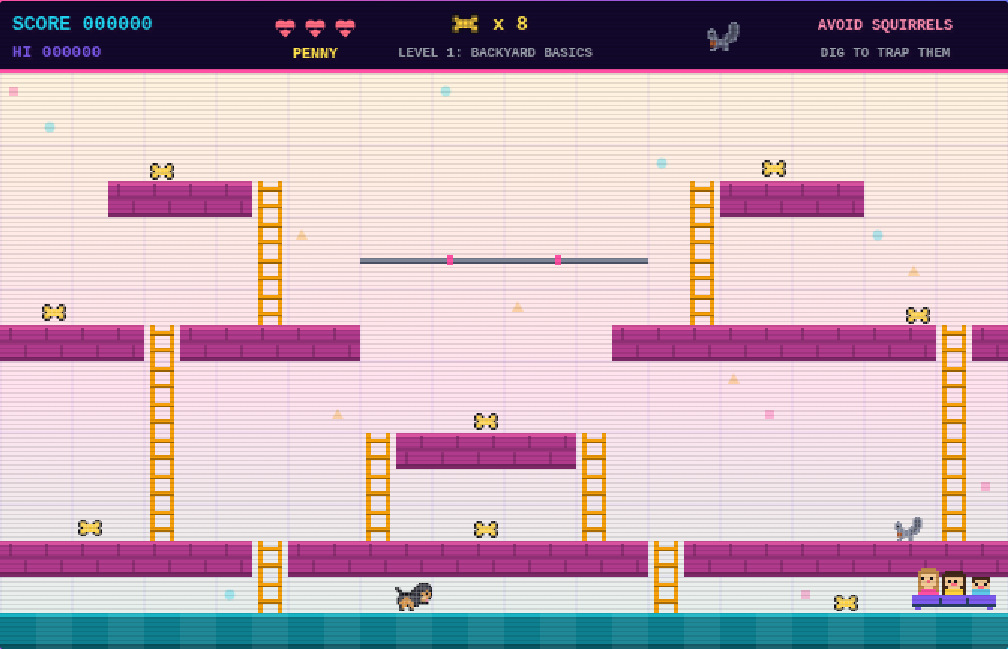
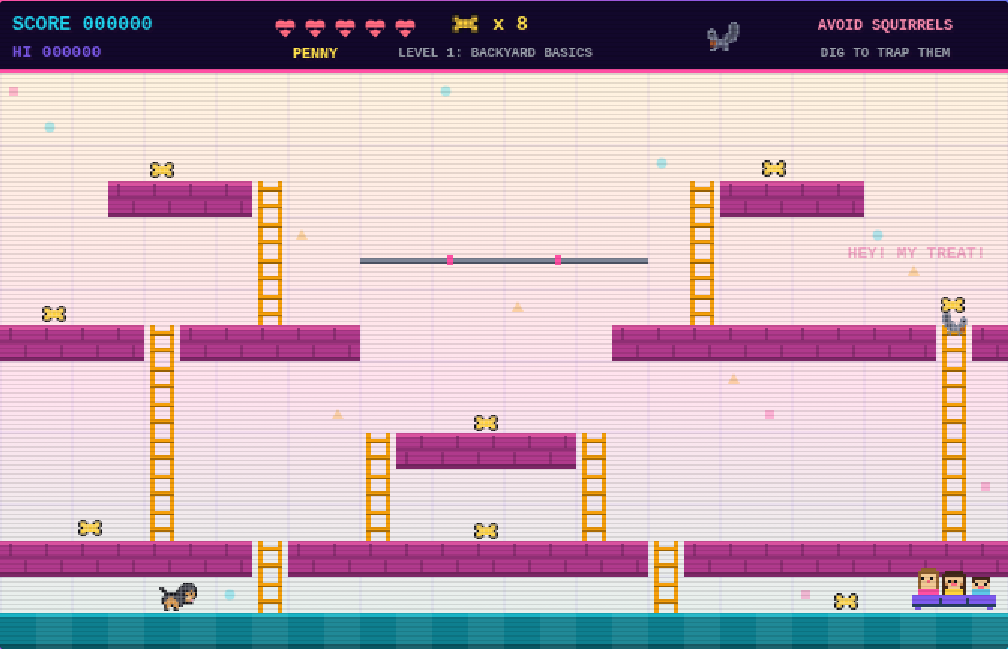
Tune for kids 7-12: forgiveness systems + family tweaks + stranding guard
Playtest findings & changes:
- Oldest girl (12) hair recolored darker and shortened to a bob; freckles
  added to the 9-year-old in the middle.
- 5 lives (was 3); a game over now retries the SAME level with fresh lives
  and keeps your score, instead of dumping you back to Level 1.
- Squirrels slowed (64->54 px/s) so Penny (92) clearly outruns them.
- validate-levels.mjs now also proves no treat can be permanently
  stranded by a bad collection order (spawn-SCC check); all levels pass.
- README documents the kid-friendly design and the guarantees the
  validator enforces.

diff --git a/game.js b/game.js
@@ -14,7 +14,8 @@ const W = COLS * T, H = ROWS * T + HUD;      // canvas size
 const PENNY_SPEED  = 92;     // px/s walking
 const CLIMB_SPEED  = 78;
 const FALL_SPEED   = 168;
-const SQRL_SPEED   = 64;
+const SQRL_SPEED   = 54;     // squirrels are clearly slower than Penny (92) so she can outrun them
+const LIVES_START  = 5;
 const DIG_TIME     = 0.34;   // s, penny locked while digging
 const HOLE_LIFE    = 5.2;    // s before a hole refills
 const HOLE_WARN    = 4.0;    // s, when refill flicker starts
@@ -108,7 +109,8 @@ const PAL = {
   p: '#ff8fb2', g: '#7e8498', G: '#555a6a', r: '#a3552c', e: '#22222a',
   y: '#ffd23e', b: '#5ec8e8', m: '#ff4fa3', v: '#7e5bef', n: '#274060',
   s: '#f2c894', h: '#ff6b81',
-  L: '#c08a4a', D: '#43291a', // kids' hair: light brown / dark brown
+  L: '#946330', D: '#43291a', // kids' hair: (darker) light brown / dark brown
+  f: '#c98a52', // freckles
 };
 
 // Penny, facing right. 16 x 12.
@@ -251,10 +253,10 @@ const FAMILY = [[
   '..LLLLLLL..DDDDDD...........',
   '..LsssssL.DDDDDDDD..........',
   '..LkssksL.DssssssD..DDDDDD..',
-  '..LsshssL.DskskssD..DssssD..',
-  '..LsssssL.DsshhssD..skssks..',
-  '..LLsssLL.DDssssDD..sshhss..',
-  '..LmmmmmL.DyyyyyyD..bbbbbb..',
+  '..LsshssL.DskfkssD..DssssD..',
+  '..LsssssL.DfshhsfD..skssks..',
+  '..LsssssL.DDssssDD..sshhss..',
+  '..mmmmmmm.DyyyyyyD..bbbbbb..',
   '..mmmmmmm.DyyyyyyD..bbbbbb..',
   'vvvvvvvvvvvvvvvvvvvvvvvvvvvv',
   'vvvvvvvvvnvvvvvvvvnvvvvvvvvv',
@@ -341,7 +343,7 @@ cx.imageSmoothingEnabled = false;
 
 let state = 'title';          // title | intro | play | snuggle | dead | gameover | win
 let stateT = 0;               // time in current state
-let level = 0, score = 0, lives = 3, hiscore = 0;
+let level = 0, score = 0, lives = LIVES_START, hiscore = 0;
 let grid = [], holes = new Map(), treats = [], squirrels = [];
 let penny = null, family = { x: 0, y: 0 };
 let exitOpen = false, popups = [], hearts = [], confetti = [];
@@ -355,7 +357,8 @@ addEventListener('keydown', e => {
   audio();
   if (e.key.toLowerCase() === 'm') muted = !muted;
   if (e.key === 'Enter') {
-    if (state === 'title' || state === 'gameover' || state === 'win') startGame();
+    if (state === 'gameover') retryLevel();           // kids: retry the SAME level, fresh lives
+    else if (state === 'title' || state === 'win') startGame();
   }
   if (e.key.toLowerCase() === 'r' && state === 'play') loseLife(true);
 });
@@ -409,7 +412,15 @@ function makeSquirrel(c, r, slow) {
 }
 
 function startGame() {
-  level = 0; score = 0; lives = 3;
+  level = 0; score = 0; lives = LIVES_START;
+  loadLevel(level);
+  setState('intro');
+  SFX.start();
+}
+// On game over, kids retry the SAME level with fresh lives (keeping their score)
+// instead of being thrown all the way back to Level 1.
+function retryLevel() {
+  lives = LIVES_START;
   loadLevel(level);
   setState('intro');
   SFX.start();
@@ -1045,11 +1056,11 @@ function draw() {
   } else if (state === 'gameover') {
     drawWorld(); drawHUD();
     cx.fillStyle = 'rgba(13,6,38,0.85)'; cx.fillRect(0, 0, W, H);
-    rainbowText('GAME OVER', W / 2, H / 2 - 40, 48);
-    chunkyText('PENNY NEEDS A NAP... SHE IS STILL A VERY GOOD DOG', W / 2, H / 2 + 8, 12, '#fdf6e7');
-    chunkyText(`FINAL SCORE ${score}`, W / 2, H / 2 + 34, 14, '#ffe14d');
+    rainbowText('OUT OF LIVES!', W / 2, H / 2 - 40, 44);
+    chunkyText('PENNY NEEDS A QUICK NAP... SHE IS STILL A VERY GOOD DOG', W / 2, H / 2 + 8, 12, '#fdf6e7');
+    chunkyText(`SCORE ${score}`, W / 2, H / 2 + 34, 14, '#ffe14d');
     if (Math.floor(stateT * 2) % 2 === 0)
-      chunkyText('- PRESS ENTER -', W / 2, H / 2 + 70, 14, '#21d3ee');
+      chunkyText(`- PRESS ENTER TO TRY ${LEVELS[level].name.split(':')[0]} AGAIN -`, W / 2, H / 2 + 70, 13, '#21d3ee');
   } else if (state === 'win') {
     drawTitle();
     cx.fillStyle = 'rgba(13,6,38,0.75)'; cx.fillRect(0, 80, W, 260);

diff --git a/README.md b/README.md
@@ -44,6 +44,20 @@ Open `index.html` in any modern browser. No build step, no dependencies.
 Three levels: **Backyard Basics**, **Squirrel Park**, and **The Big Dig**.
 Finish all three to confirm what we already knew: Penny is a very good dog.
 
+### Made to be kid-friendly (ages ~7–12)
+
+- **No timer** — explore and plan at your own pace.
+- **5 lives**, and a death only sends Penny back to the start of the *current*
+  level with her collected treats kept — squirrels reset and she reappears with
+  a second of invulnerability.
+- **Running out of lives retries the same level** with fresh lives (you're
+  never thrown back to Level 1), and your score carries over.
+- **Penny is faster than every squirrel** (and Level 1's lone squirrel is
+  extra slow), so you can always outrun them on open ground.
+- Every level is provably completable with basic moving and climbing — no
+  digging required — and no treat can be permanently stranded (see
+  `tools/validate-levels.mjs`).
+
 ## Development
 
 - Everything is hand-rolled in `game.js` — pixel-art sprites defined as
